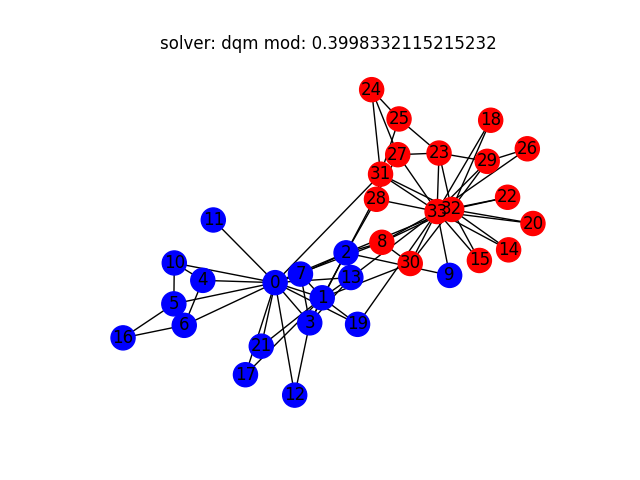
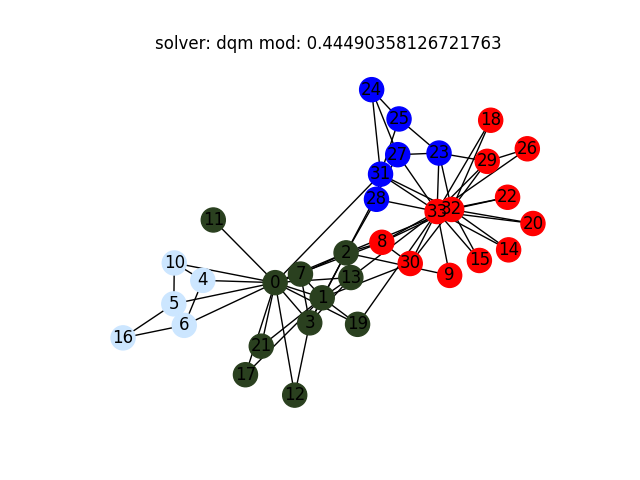
Encoding change

diff --git a/QHyper/problems/community_detection.py b/QHyper/problems/community_detection.py
@@ -69,71 +69,79 @@ class CommunityDetectionProblem(Problem):
             number of communities into which the graph shall be divided
             (default 2)
         """
-        if N_communities <= 1:
-            raise Exception("Number of communities must be greater than 1")
-        self.N_cases = N_communities
+        if N_communities < 1:
+            raise Exception(
+                "Number of communities must be greater than or equal to 1"
+            )
+        self.cases: int = N_communities
         self.G = network_data.graph
         self.B = network_data.modularity_matrix
+        self.variables = self._encode_discretes_to_one_hots()
+        self._set_objective_function()
+        self._set_one_hot_constraints()
 
-        self.discrete_variables: tuple[sympy.Symbol] = sympy.symbols(
-            " ".join([f"x{i}" for i in range(len(self.G.nodes))])
-        )
-        self.dummy_variables: dict = self._get_dummy_variables()
-        self.variables = self._get_variables_from_dummies()
+    def encode_discrete_to_one_hot(
+        self, discrete_variable: sympy.Symbol, case_value: int
+    ) -> sympy.Symbol:
+        discrete_id = int(str(discrete_variable)[len("x") :])
+        binary_id = discrete_id * self.cases + case_value
+        return sympy.symbols(f"s{binary_id}")
 
-        # self._set_objective_function()
-        # self._set_one_hot_constraints()
-        self._set_objective_function_discrete()
-        self.constraints = []
+    def decode_one_hot_to_discrete(
+        self, variable: sympy.Symbol
+    ) -> sympy.Symbol:
+        binary_id = int(str(variable)[len("s") :])
+        discrete_id = int(binary_id // self.cases)
+        return sympy.symbols(f"x{discrete_id}")
 
-    def _get_dummy_variables(self) -> dict:
-        dummies: dict = {
-            var: sympy.symbols(
-                " ".join(
-                    [
-                        f"s{k}"
-                        for k in range(
-                            i * self.N_cases, (i + 1) * self.N_cases
-                        )
-                    ]
-                )
-            )
-            for i, var in enumerate(self.discrete_variables)
-        }
-        return dummies
+    def decode_case_value_from_one_hot(self, variable: sympy.Symbol) -> int:
+        id = int(str(variable)[len("s") :])
+        case_value = id % self.cases
+        return case_value
 
-    def _get_variables_from_dummies(self) -> tuple[sympy.Symbol]:
-        variables: tuple[sympy.Symbol] = sympy.symbols(
+    def _encode_discretes_to_one_hots(self) -> tuple[sympy.Symbol]:
+        one_hots: tuple[sympy.Symbol] = sympy.symbols(
             " ".join(
                 [
-                    f"{str(var_name)}"
-                    for _, v in self.dummy_variables.items()
-                    for var_name in v
+                    str(self.encode_discrete_to_one_hot(var, case_val))
+                    for case_val in range(self.cases)
+                    for var in self.discrete_variables_repr
                 ]
             )
         )
-        return variables
+        return one_hots
+
+    def _get_discrete_variable_representation(self) -> tuple[sympy.Symbol]:
+        return sympy.symbols(
+            " ".join([f"x{i}" for i in range(len(self.G.nodes))])
+        )
+
+    # def _set_objective_function(self) -> None:
+    #     equation: dict[VARIABLES, float] = {}
+    #     for i in self.G.nodes:
+    #         for j in range(i + 1, len(self.G.nodes)):
+    #             u_var, v_var = (
+    #                 self.discrete_variables_repr[i],
+    #                 self.discrete_variables_repr[j],
+    #             )
+    #             for case in range(self.cases):
+    #                 u_var_dummy = str(self.dummy_variables[u_var][case])
+    #                 v_var_dummy = str(self.dummy_variables[v_var][case])
+    #                 equation[(u_var_dummy, v_var_dummy)] = self.B[i, j]
+
+    #     equation = {key: -1 * val for key, val in equation.items()}
+
+    #     self.objective_function = Expression(equation)
 
     def _set_objective_function(self) -> None:
         equation: dict[VARIABLES, float] = {}
         for i in self.G.nodes:
             for j in range(i + 1, len(self.G.nodes)):
-                u_var, v_var = self.discrete_variables[i], self.discrete_variables[j]
-                for case in range(self.N_cases):
-                    u_var_dummy = str(self.dummy_variables[u_var][case])
-                    v_var_dummy = str(self.dummy_variables[v_var][case])
-                    equation[(u_var_dummy, v_var_dummy)] = self.B[i, j]
-
-        equation = {key: -1 * val for key, val in equation.items()}
-
-        self.objective_function = Expression(equation)
-
-    def _set_objective_function_discrete(self) -> None:
-        equation: dict[VARIABLES, float] = {}
-        for i in self.G.nodes:
-            for j in range(i + 1, len(self.G.nodes)):
-                u_var, v_var = self.discrete_variables[i], self.discrete_variables[j]
-                equation[(u_var, v_var)] = self.B[i, j]
+                for case_val in range(self.cases):
+                    x_i, x_j = sympy.symbols(f"x{i}"), sympy.symbols(f"x{j}")
+                    s_i = str(self.encode_discrete_to_one_hot(x_i, case_val))
+                    s_j = str(self.encode_discrete_to_one_hot(x_j, case_val))
+                    equation[(s_i, s_j)] = self.B[i, j]
 
         equation = {key: -1 * val for key, val in equation.items()}
 
@@ -157,8 +165,8 @@ class CommunityDetectionProblem(Problem):
         for variable, value in solution.items():
             _, id = variable[0], int(variable[len("s") :])
             if value == ONE_HOT_VALUE:
-                case_value = id % self.N_cases
-                variable_id = id // self.N_cases
+                case_value = id % self.cases
+                variable_id = id // self.cases
                 decoded_solution[variable_id] = case_value
 
         decoded_solution = self.sort_decoded_solution(decoded_solution)
@@ -166,9 +174,7 @@ class CommunityDetectionProblem(Problem):
 
     def sort_dummied_encoded_solution(self, dummies_solution: dict) -> dict:
         keyorder = [
-            v
-            for _, dummies in self.dummy_variables.items()
-            for v in dummies
+            v for _, dummies in self.dummy_variables.items() for v in dummies
         ]
         solution_by_keyorder: dict = {
             str(k): dummies_solution[str(k)]
@@ -178,7 +184,7 @@ class CommunityDetectionProblem(Problem):
         return solution_by_keyorder
 
     def sort_decoded_solution(self, decoded_solution: dict) -> dict:
-        keyorder = [int(str(v)[len("x"):]) for v in self.variables]
+        keyorder = [int(str(v)[len("x") :]) for v in self.variables]
         decoded_solution_by_keyorder: dict = {
             k: decoded_solution[k] for k in keyorder if k in decoded_solution
         }

diff --git a/demo/advantage_demos/karate_N2.py b/demo/advantage_demos/karate_N2.py
@@ -46,18 +46,18 @@ decoded_solution_file = f"{folder}/{name}_adv_decoded_solution.csv"
 img_solution_path = f"{folder}/{name}_adv.png"
 
 
-def create_qubo(problem: Problem) -> QUBO:
-    results: dict[VARIABLES, float] = {}
-    for key, value in problem.objective_function.as_dict().items():
-        if key in results:
-            results[key] += value
-        else:
-            results[key] = value
-    return results
+# def create_qubo(problem: Problem) -> QUBO:
+#     results: dict[VARIABLES, float] = {}
+#     for key, value in problem.objective_function.as_dict().items():
+#         if key in results:
+#             results[key] += value
+#         else:
+#             results[key] = value
+#     return results
 
 
 karate_problem = CommunityDetectionProblem(
-    network_data=KarateClubNetwork, N_communities=2
+    network_data=KarateClubNetwork, N_communities=4
 )
 problem = karate_problem
 
@@ -65,13 +65,15 @@ adv_sampler = DWaveSampler(solver=dict(topology__type="pegasus"))
 sampler = adv_sampler
 solver = "adv"
 
-# qubo = Converter.create_qubo(problem, [1]+[0]*34)
+
 # qubo = create_qubo(problem)
 # binary_polynomial = dimod.BinaryPolynomial(
 #     problem.objective_function.as_dict(), dimod.BINARY
 # )
 # bqm = dimod.make_quadratic(binary_polynomial, 5.0, dimod.BINARY)
 # qubo = Converter.to_qubo(problem)
+# qubo = Converter.create_qubo(problem, [1])
+# bqm = dimod.BinaryQuadraticModel.from_qubo(qubo)
 binary_polynomial = dimod.BinaryPolynomial(
     problem.objective_function.as_dict(), dimod.BINARY
 )
@@ -112,24 +114,24 @@ sampleset = EmbeddingComposite(adv_sampler).sample(bqm)
 sample = sampleset.first.sample
 energy = sampleset.first.energy
 
-# solution = problem.sort_dummied_encoded_solution(sample)
-# decoded_solution = problem.decode_dummies_solution(solution)
-solution = sample
-decoded_solution = {int(str(key)[len('x'):]): val for key, val in solution.items()}
+solution = problem.sort_dummied_encoded_solution(sample)
+decoded_solution = problem.decode_dummies_solution(solution)
+# solution = sample
+# decoded_solution = {int(str(key)[len('x'):]): val for key, val in solution.items()}
 
 
 print(f"solution: {solution}\n\n")
 print(f"decoded_solution: {decoded_solution}\n\n")
 
-write_to_file(solution, solution_file)
-write_to_file(decoded_solution, decoded_solution_file)
+# write_to_file(solution, solution_file)
+# write_to_file(decoded_solution, decoded_solution_file)
 # draw_communities_from_graph(
 #     problem=problem, sample=decoded_solution, path=img_solution_path
 # )
 try:
     modularity = nx_comm.modularity(
         problem.G,
-        communities=communities_from_sample(decoded_solution, problem.N_cases),
+        communities=communities_from_sample(decoded_solution, problem.cases),
     )
     print(f"modularity: {modularity}")
 except Exception as e:

diff --git a/demo/community_detection_gurobi_demo.py b/demo/community_detection_gurobi_demo.py
@@ -38,7 +38,7 @@ write_to_file(decoded_solution, f"{folder_csv}/{name}_{solver}_decoded_solution.
 draw_communities_from_graph(
     problem=problem, sample=decoded_solution, path=f"{folder}/{name}_{solver}.png"
 )
-modularity = nx_comm.modularity(problem.G, communities=communities_from_sample(decoded_solution, problem.N_cases))
+modularity = nx_comm.modularity(problem.G, communities=communities_from_sample(decoded_solution, problem.cases))
 print(f"{solver} {name} modularity: {modularity}")
 
 problem = brain_problem
@@ -53,5 +53,5 @@ write_to_file(decoded_solution, f"{folder_csv}/{name}_{solver}_decoded_solution.
 draw_communities_from_graph(
     problem=problem, sample=decoded_solution, path=f"{folder}/{name}_{solver}.png"
 )
-modularity = nx_comm.modularity(problem.G, communities=communities_from_sample(decoded_solution, problem.N_cases))
+modularity = nx_comm.modularity(problem.G, communities=communities_from_sample(decoded_solution, problem.cases))
 print(f"{solver} {name} modularity: {modularity}")

diff --git a/demo/community_detection_dqm.py b/demo/community_detection_dqm.py
@@ -31,7 +31,7 @@ path = "QHyper/problems/network_communities/brain_community_data"
 data_name = "Edge_AAL90_Binary"
 brain_network = BrainNetwork(input_data_dir=path, input_data_name=data_name)
 
-karate_problem = CommunityDetectionProblem(KarateClubNetwork, N_communities=2)
+karate_problem = CommunityDetectionProblem(KarateClubNetwork, N_communities=4)
 # brain_problem = CommunityDetectionProblem(brain_network, N_communities=4)
 
 
@@ -44,7 +44,7 @@ sample = sampleset.first.sample
 
 communities = [
     {int(c[len("x") :]) for c in comm}
-    for comm in communities_from_sample(sample, problem.N_cases)
+    for comm in communities_from_sample(sample, problem.cases)
 ]
 modularity = nx_comm.modularity(problem.G, communities=communities)
 print(f"{solver} {name} modularity: {modularity}")

diff --git a/QHyper/problems/base.py b/QHyper/problems/base.py
@@ -29,11 +29,15 @@ class Problem(ABC):
         list of variables in the problem
     name: str
         helps to differentiate various problems (default "")
+    case: int
+        maximum number of cases (values) a variable can take
+        (default 1 - for binary variables)
     """
     objective_function: Expression
     constraints: list[Expression]
     variables: tuple[sympy.Symbol]
     name: str = ""
+    cases: int = 1
 
     def get_score(self, result: str) -> float | None:
         """Returns score of the outcome provided as a binary string
